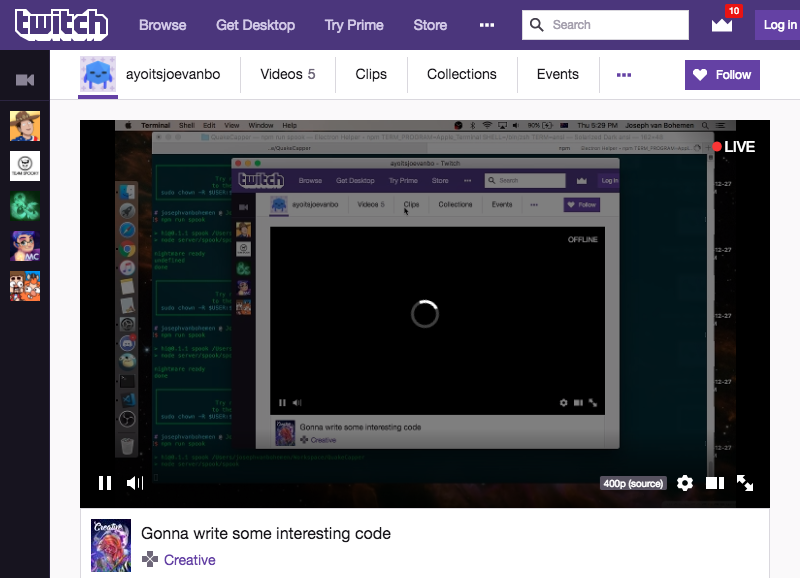
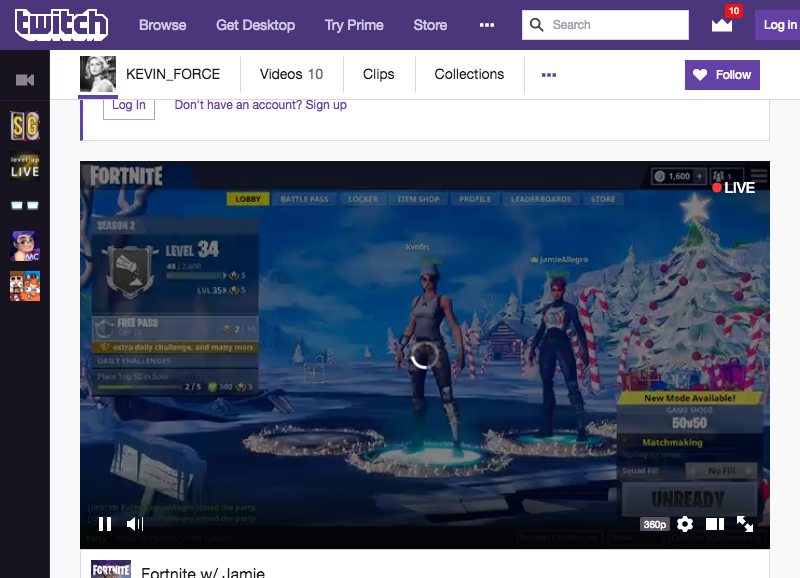
basic readwrite setup

diff --git a/server/spook/spook.js b/server/spook/spook.js
@@ -2,7 +2,7 @@ const Nightmare = require('nightmare')
 const nightmare = Nightmare({ show: true })
 
 nightmare
-  .goto('https://www.twitch.tv/ayoitsjoevanbo')
+  .goto('https://www.twitch.tv/kevin_force')
   .then(() => {
     return nightmare
       .wait(5500)
@@ -11,7 +11,10 @@ nightmare
   .then(() => {
     console.log('nightmare', nightmare.state)
     nightmare.end()
-      .then(res => {
+      .then(() => {
         console.log('done')
       })
   })
+
+  // so next I want to attach a read/write file to keep track of my screenshots, to know what level is what
+// also want to attach a readline functionality so I can just press a button to take the screenshot rather than enter the script every time.. I think that would be cool. press spacebar - readfile, screenshot, writefile. nice

diff --git a/server/readLine/readWrite.js b/server/readLine/readWrite.js
@@ -1,0 +1,16 @@
+const fs = require('fs')
+const path = require('path')
+
+readWrite()
+
+function readWrite () {
+  fs.readFile(path.join(__dirname, 'recordTemplate.json'), 'utf8', (err, data) => {
+    if (err) console.log(err)
+    else {
+      fs.writeFile(`${__dirname}/../records/test.json`, data, err => {
+        if (err) console.log(err)
+        else console.log('nice one', JSON.parse(data))
+      })
+    }
+  })
+}

diff --git a/server/readLine/index.js b/server/readLine/index.js
@@ -1,0 +1,18 @@
+const readline = require('readline')
+
+begin()
+
+function create () {
+  return readline.createInterface({
+    input: process.stdin,
+    output: process.stdout
+  })
+}
+
+function begin () {
+  console.log('')
+  const rl = create()
+  rl.on('line', (input) => {
+    console.log(`Received: ${input}`)
+  })
+}
